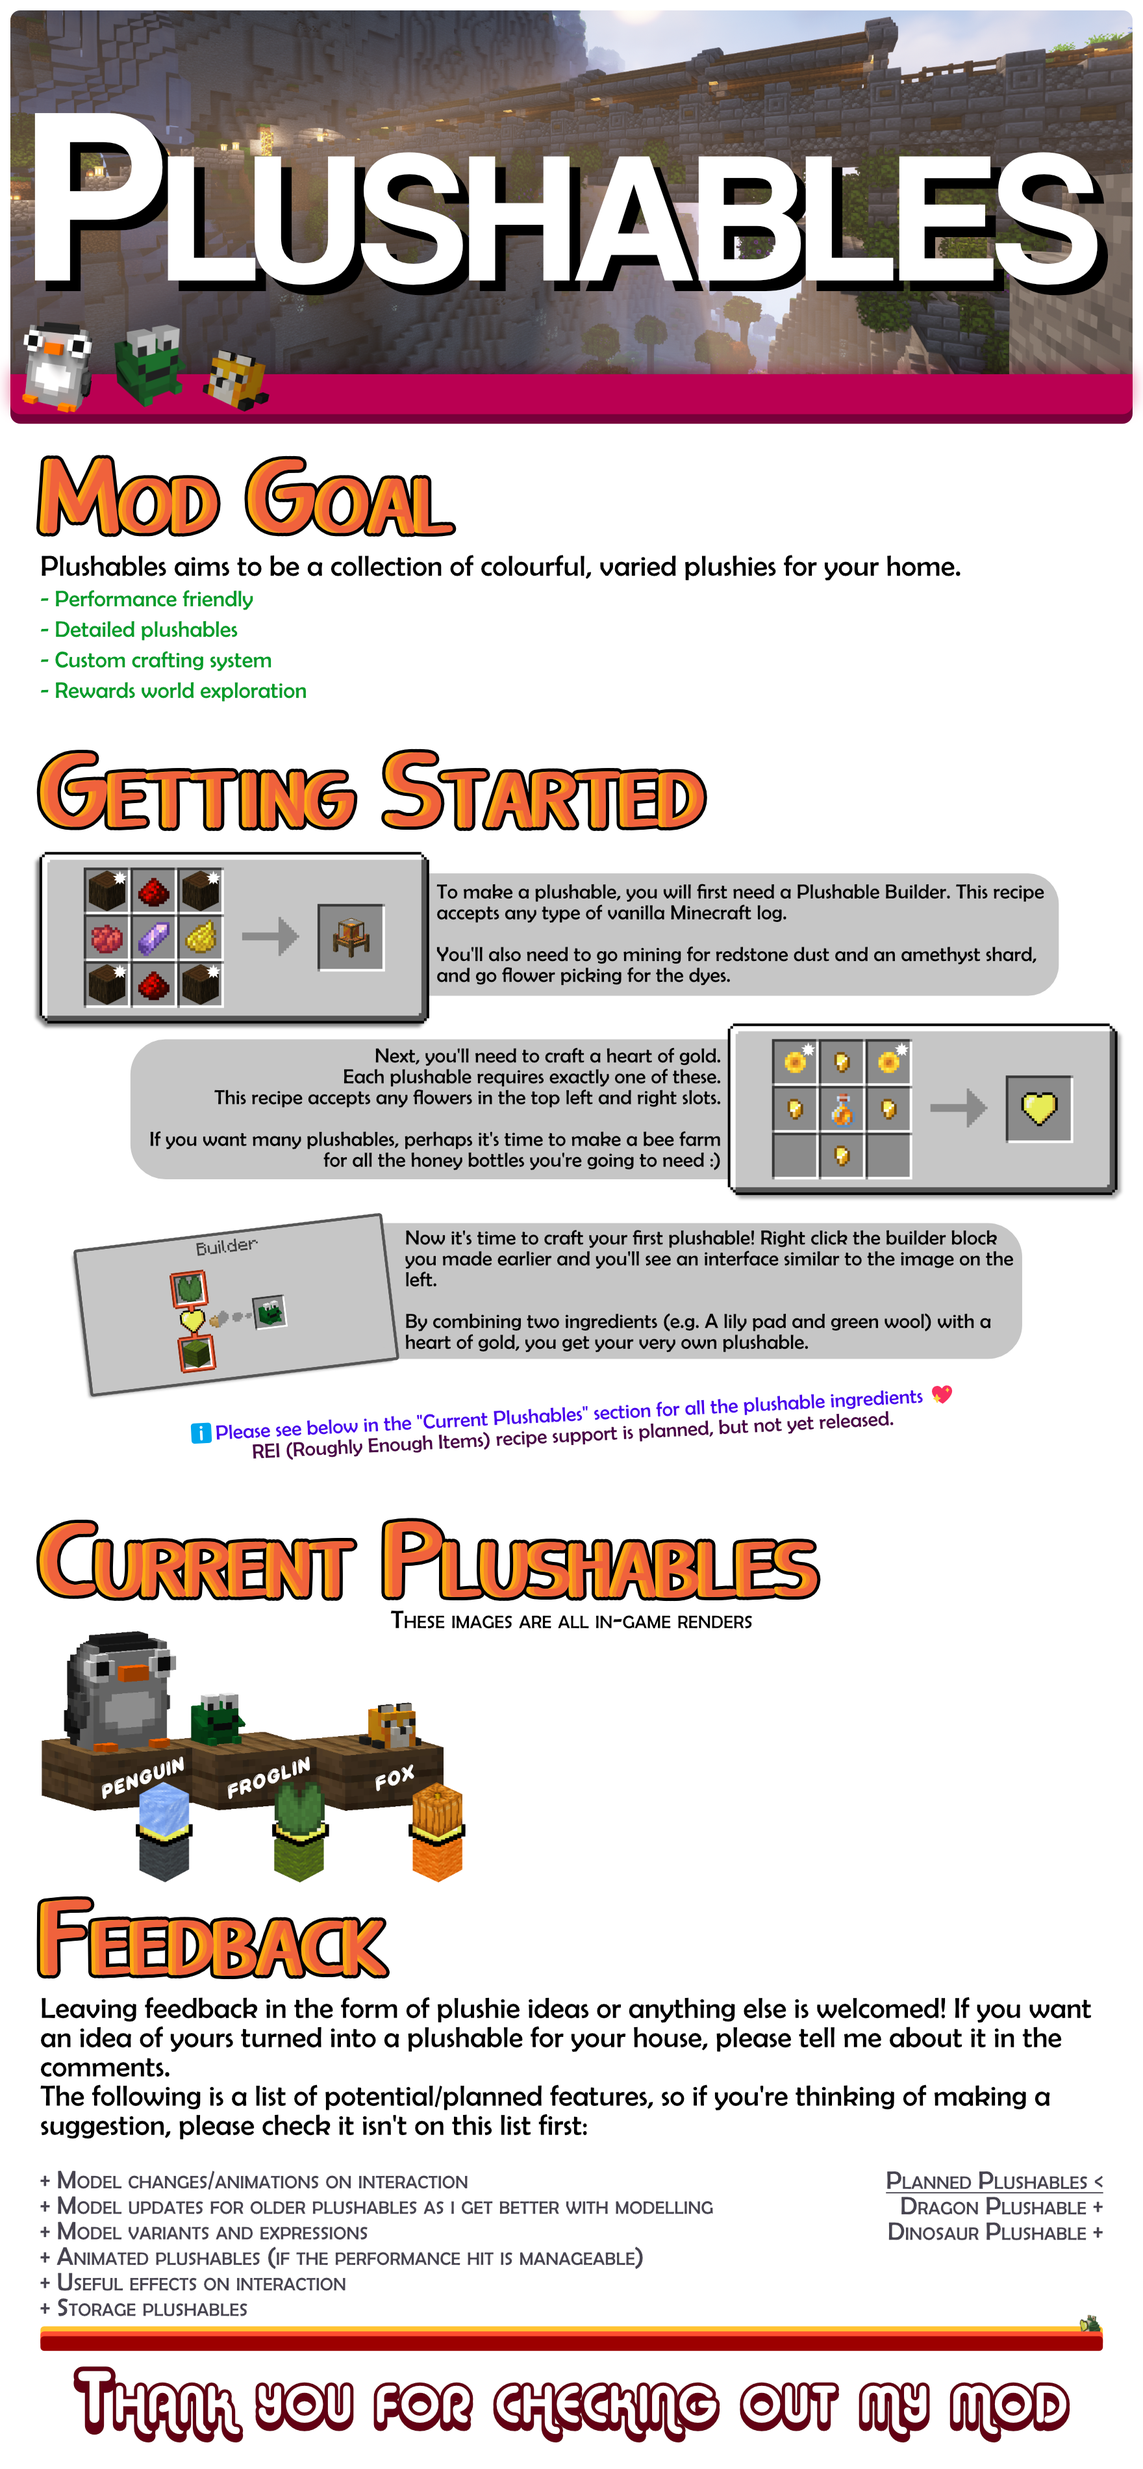
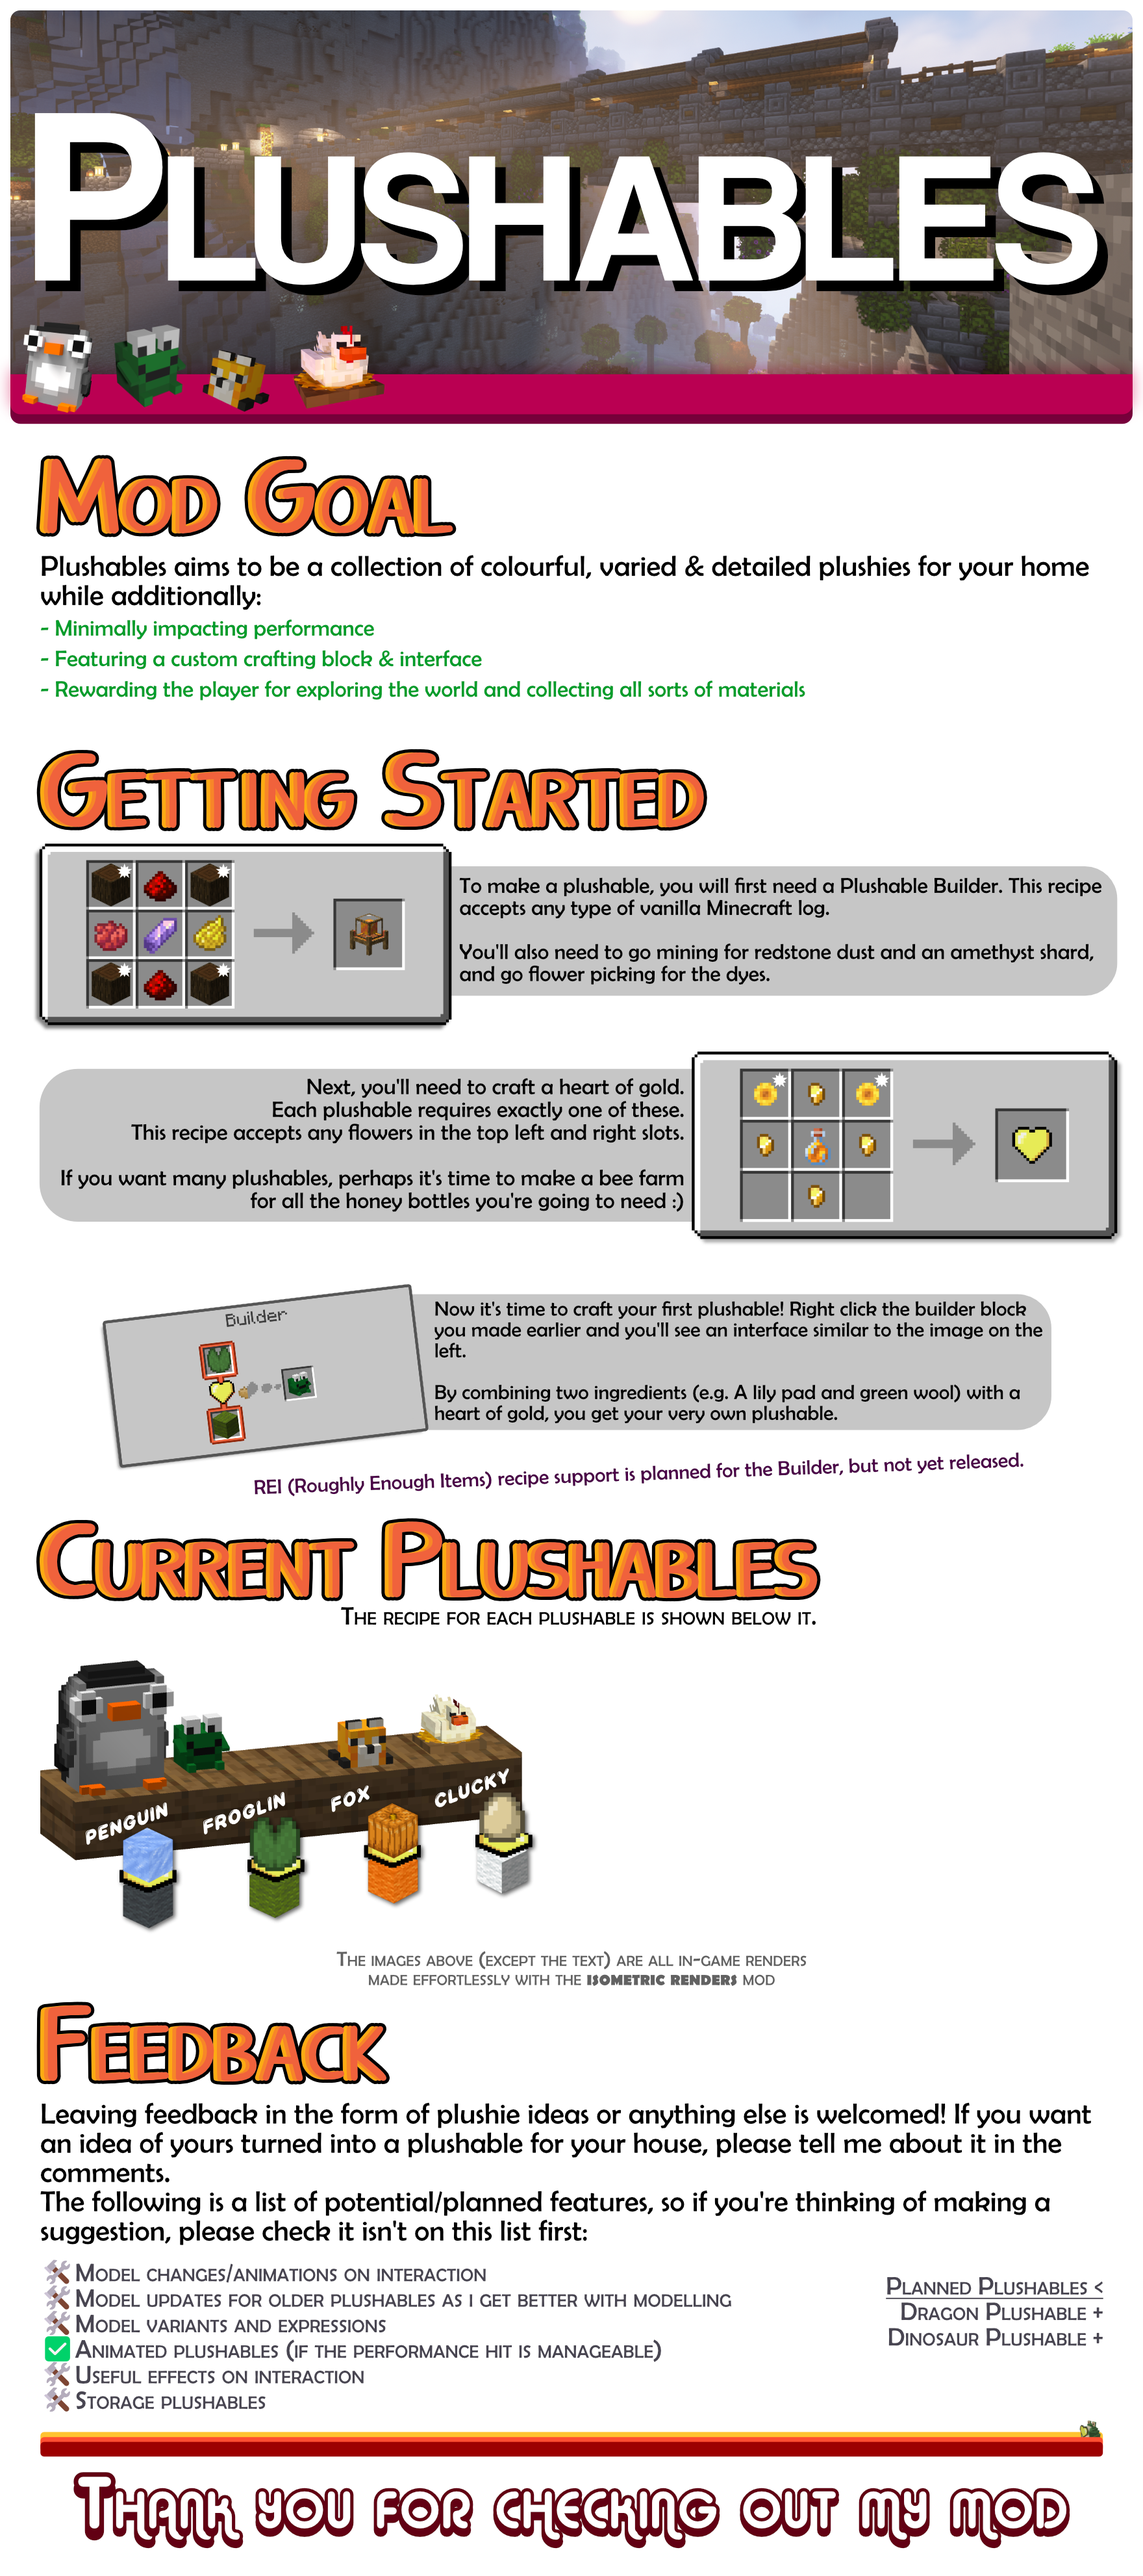
Code prune, clucky finalized

diff --git a/src/main/java/com/seacroak/plushables/registry/TileRegistryClient.java b/src/main/java/com/seacroak/plushables/registry/TileRegistryClient.java
@@ -1,17 +1,12 @@
 package com.seacroak.plushables.registry;
 
-import com.seacroak.plushables.PlushablesMod;
-import com.seacroak.plushables.block.tile.BuilderTileEntity;
 import com.seacroak.plushables.client.renderer.tile.BuilderTileRenderer;
 import com.seacroak.plushables.client.renderer.tile.CluckyTileRenderer;
 
 import net.fabricmc.api.EnvType;
 import net.fabricmc.api.Environment;
 import net.fabricmc.fabric.api.client.rendering.v1.BlockEntityRendererRegistry;
-import net.fabricmc.fabric.api.object.builder.v1.block.entity.FabricBlockEntityTypeBuilder;
-import net.minecraft.block.entity.BlockEntityType;
 import net.minecraft.client.render.block.entity.BlockEntityRendererFactory;
-import net.minecraft.util.registry.Registry;
 
 // public class TileRegistry {
 // 	// public static final BlockEntityType<HabitatTileEntity> HABITAT_TILE =

diff --git a/src/main/java/com/seacroak/plushables/registry/TileRegistry.java b/src/main/java/com/seacroak/plushables/registry/TileRegistry.java
@@ -3,14 +3,9 @@ package com.seacroak.plushables.registry;
 import com.seacroak.plushables.PlushablesMod;
 import com.seacroak.plushables.block.tile.BuilderTileEntity;
 import com.seacroak.plushables.block.tile.CluckyTileEntity;
-import com.seacroak.plushables.client.renderer.tile.BuilderTileRenderer;
 
-import net.fabricmc.api.EnvType;
-import net.fabricmc.api.Environment;
-import net.fabricmc.fabric.api.client.rendering.v1.BlockEntityRendererRegistry;
 import net.fabricmc.fabric.api.object.builder.v1.block.entity.FabricBlockEntityTypeBuilder;
 import net.minecraft.block.entity.BlockEntityType;
-import net.minecraft.client.render.block.entity.BlockEntityRendererFactory;
 import net.minecraft.util.registry.Registry;
 
 // public class TileRegistry {

diff --git a/src/main/java/com/seacroak/plushables/PlushablesModClient.java b/src/main/java/com/seacroak/plushables/PlushablesModClient.java
@@ -1,17 +1,11 @@
 package com.seacroak.plushables;
 
-import org.slf4j.Logger;
-import org.slf4j.LoggerFactory;
-
-import com.seacroak.plushables.registry.ItemGroupRegistry;
 import com.seacroak.plushables.registry.ScreenRegistry;
-import com.seacroak.plushables.registry.TileRegistry;
 import com.seacroak.plushables.registry.TileRegistryClient;
 
 import net.fabricmc.api.ClientModInitializer;
 import net.fabricmc.api.EnvType;
 import net.fabricmc.api.Environment;
-import net.minecraft.item.ItemGroup;
 
 public final class PlushablesModClient implements ClientModInitializer {
 	@Override

diff --git a/src/main/java/com/seacroak/plushables/block/BuilderBlock.java b/src/main/java/com/seacroak/plushables/block/BuilderBlock.java
@@ -52,7 +52,7 @@ public class BuilderBlock extends BlockWithEntity {
 
 	@Override
 	public BlockRenderType getRenderType(BlockState state) {
-		return BlockRenderType.ENTITYBLOCK_ANIMATED;
+		return BlockRenderType.INVISIBLE;
 	}
 
 	@Nullable

diff --git a/src/main/java/com/seacroak/plushables/block/CluckyBlock.java b/src/main/java/com/seacroak/plushables/block/CluckyBlock.java
@@ -98,7 +98,7 @@ public class CluckyBlock extends BlockWithEntity {
 
 	@Override
 	public BlockRenderType getRenderType(BlockState state) {
-		return BlockRenderType.ENTITYBLOCK_ANIMATED;
+		return BlockRenderType.INVISIBLE;
 	}
 
 	@Nullable
